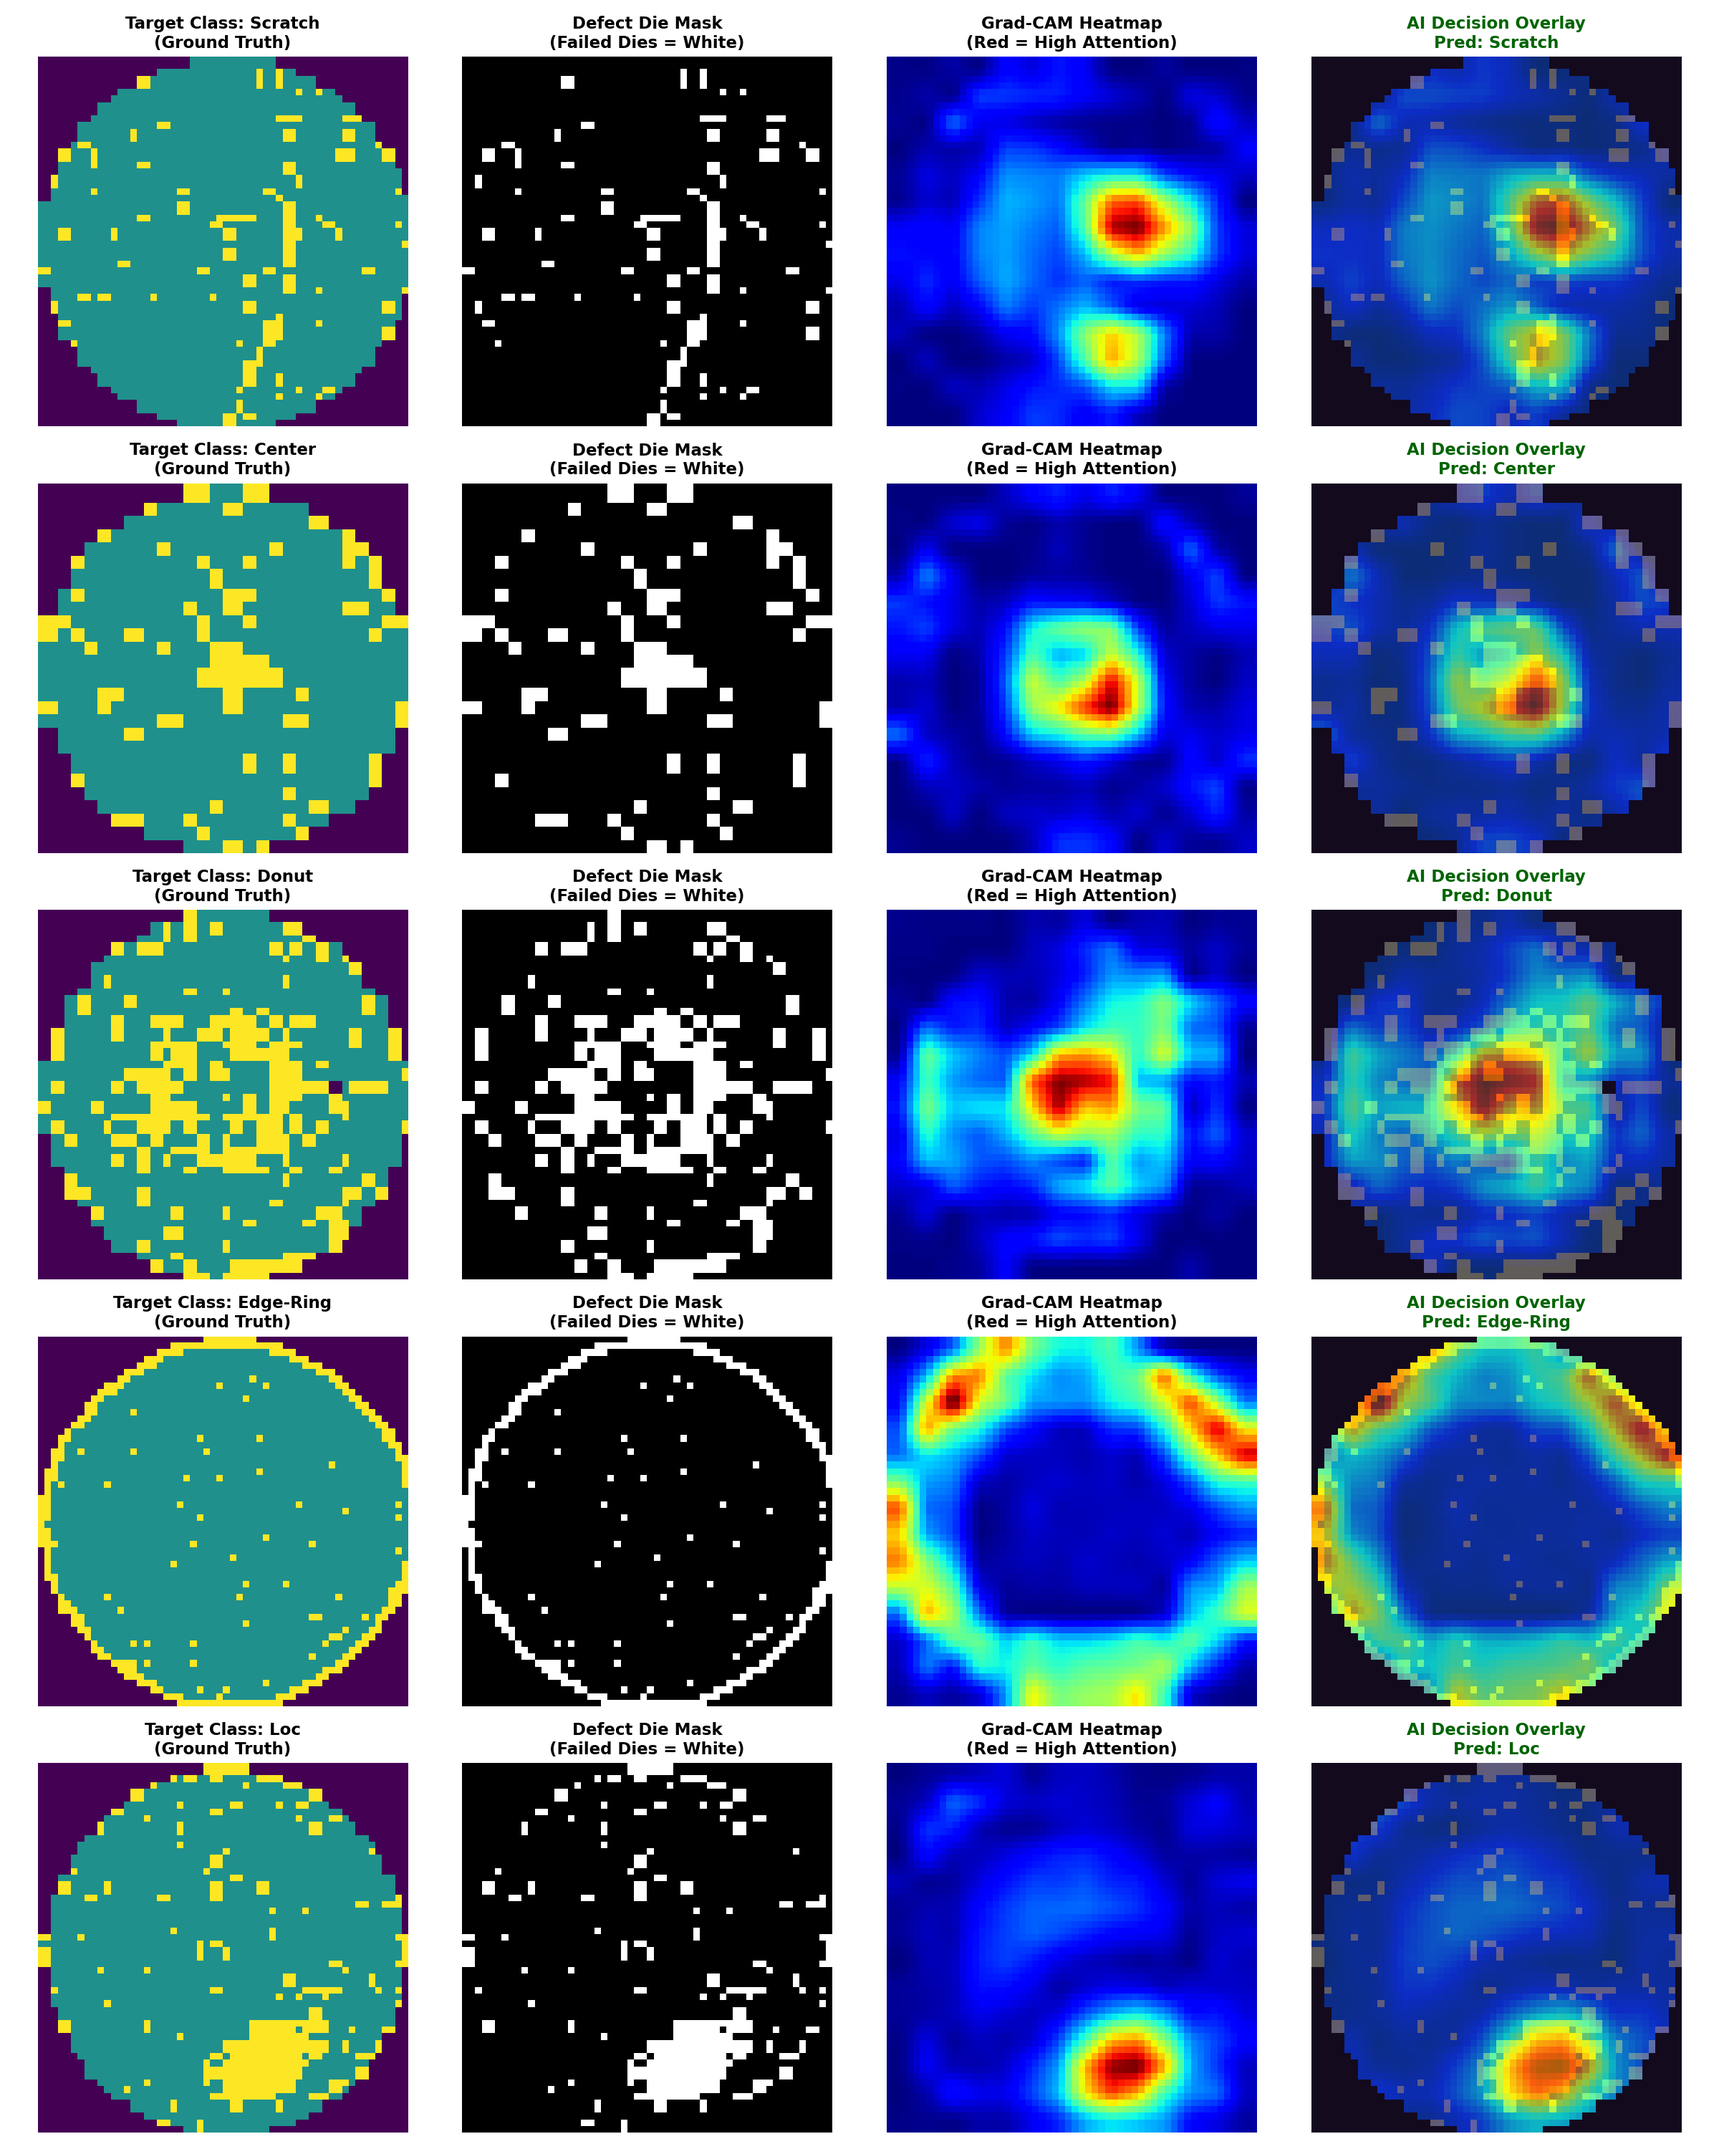
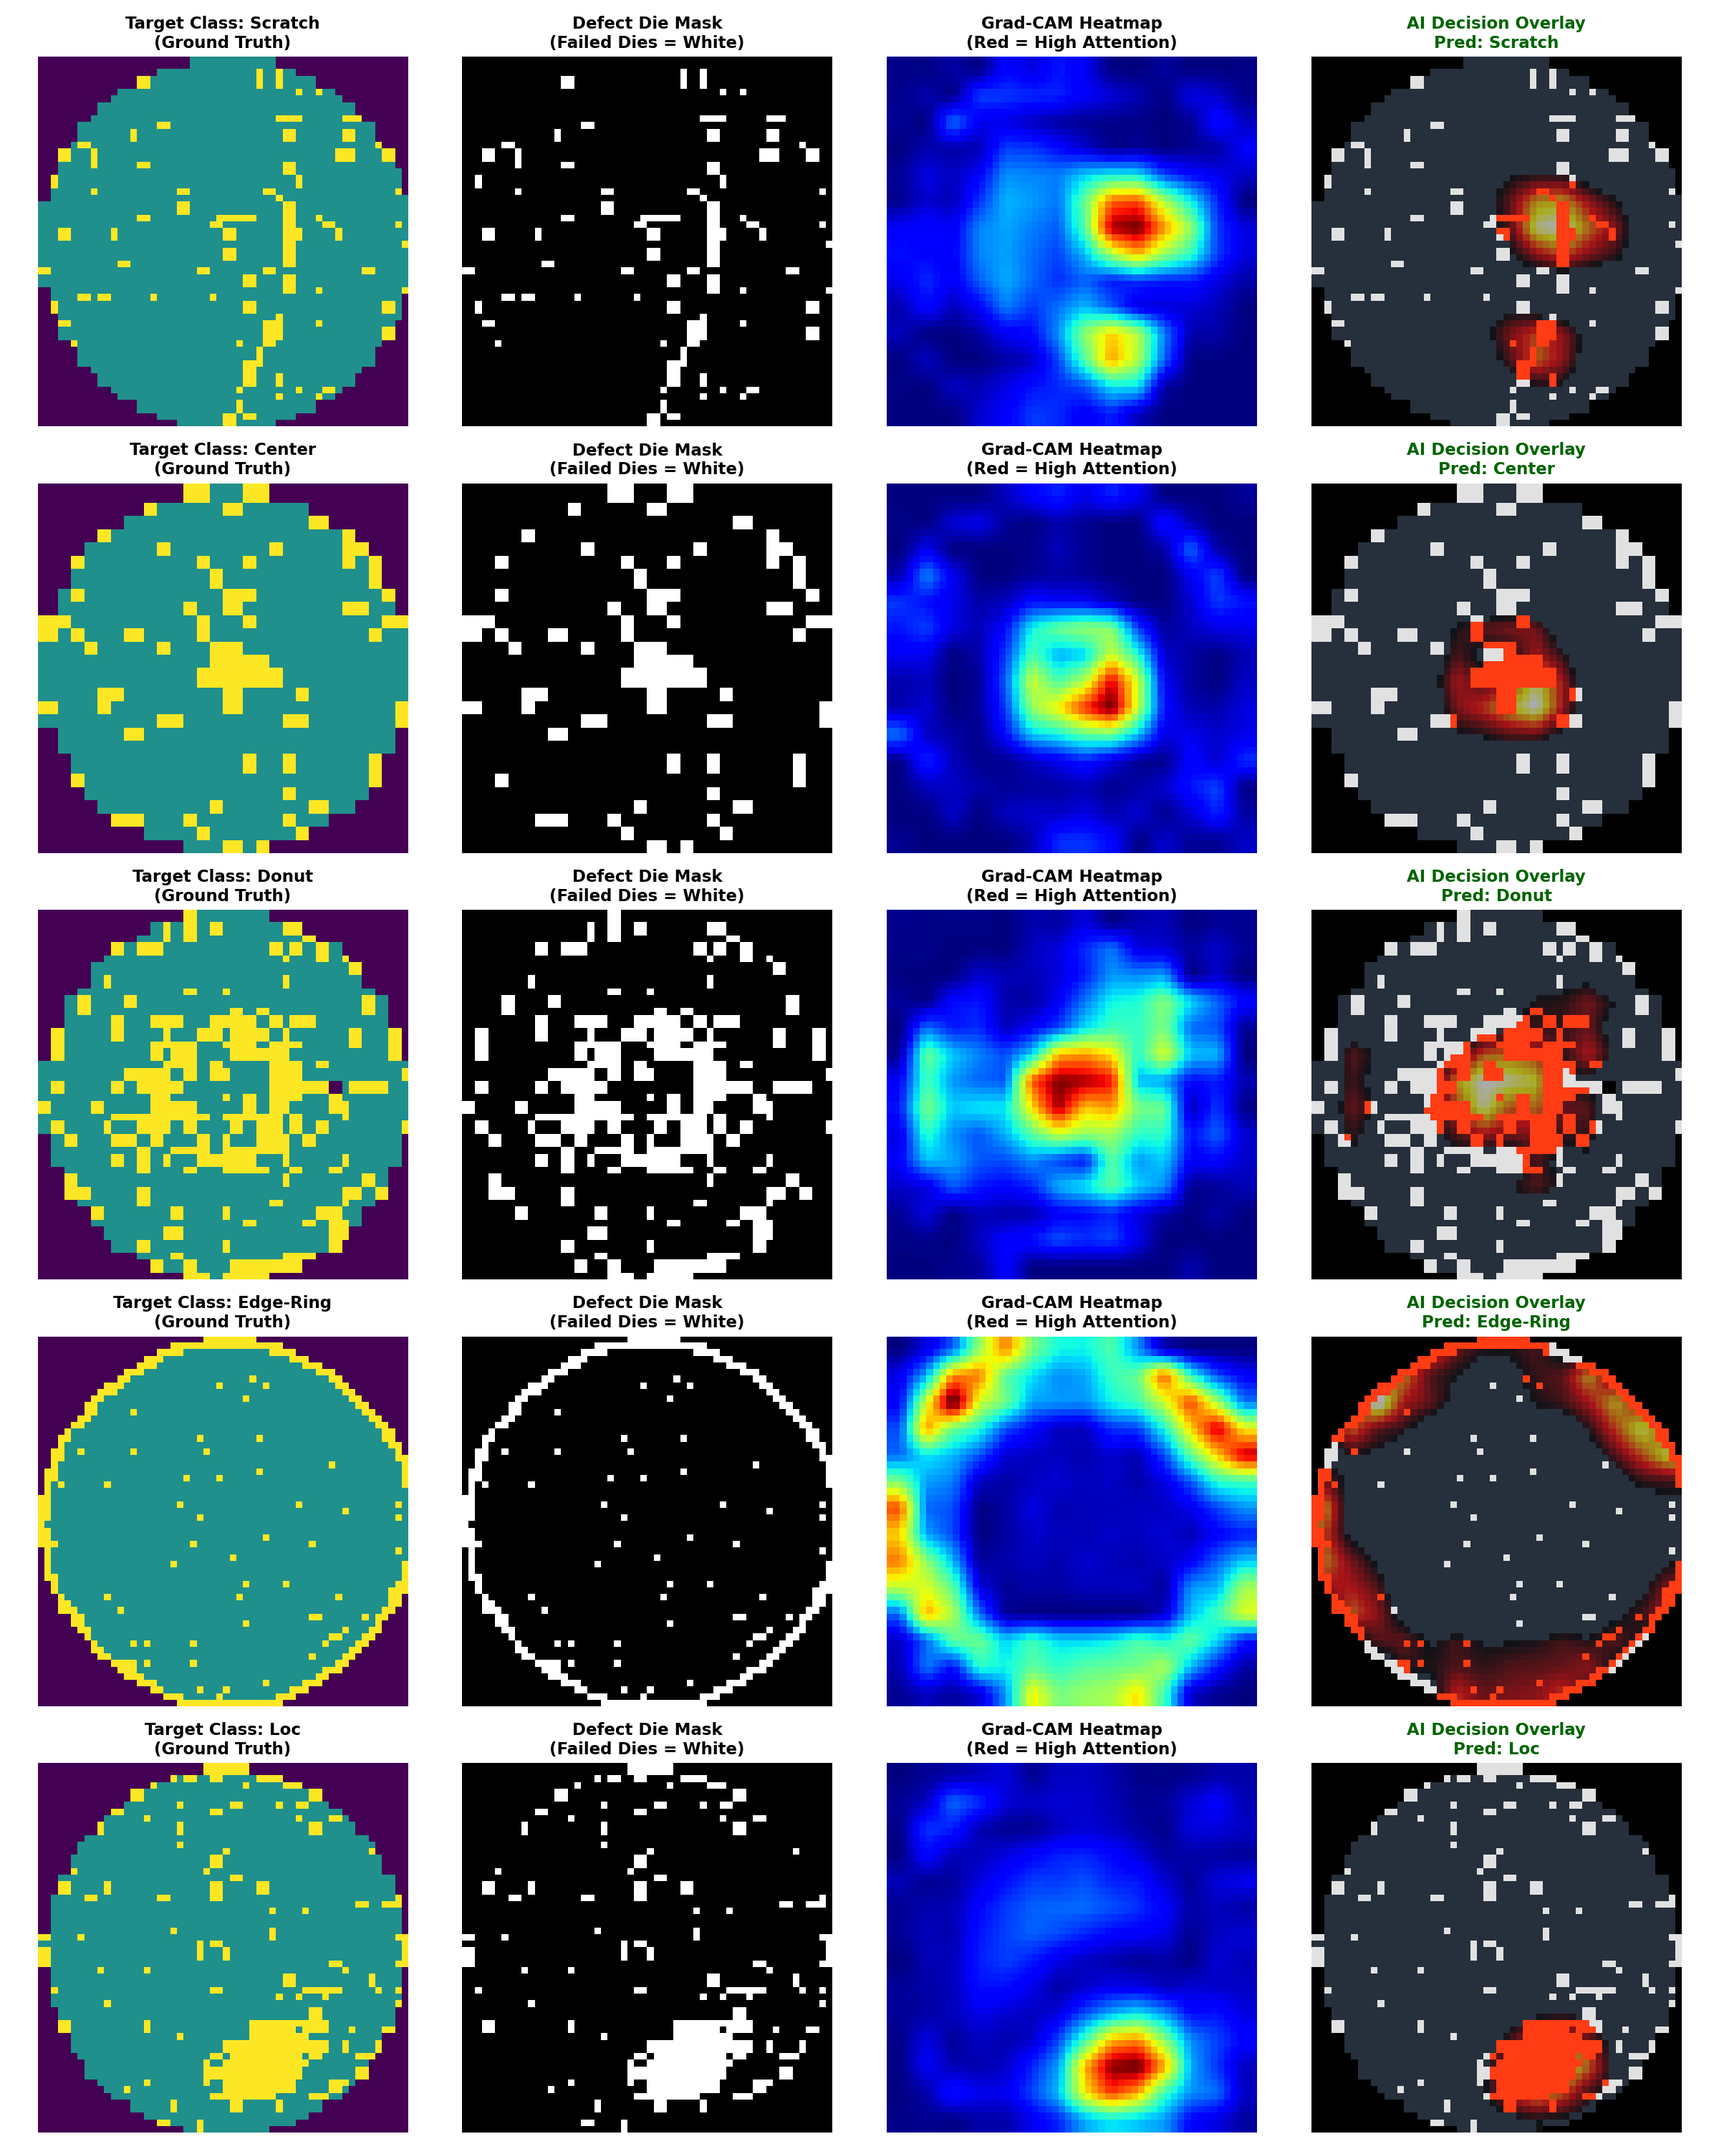
style: enhance Grad-CAM overlay contrast with focused defect highlighting

Changed region(s): [[0.75, 0.0, 1.0, 0.992]]

diff --git a/src/explainability.py b/src/explainability.py
@@ -1,4 +1,4 @@
-import numpy as np
+import numpy as np
 import cv2
 import torch
 import torch.nn.functional as F
@@ -58,30 +58,45 @@ class GradCAM:
             
         return cam, target_class
 
-def overlay_heatmap_on_wafer(wafer_map, cam, alpha=0.55):
+def overlay_heatmap_on_wafer(wafer_map, cam, threshold=0.35):
     """
-    Overlays colored Grad-CAM heatmap directly onto the wafer map.
+    Creates an industrial-grade, crisp explainability overlay:
+    - Background: Black
+    - Wafer Body (Good dies): Clean Dark Navy/Slate Gray
+    - Defect Dies: Sharp White
+    - AI Attention Focus: Glowing Crimson Red highlighting exactly where the model looked!
     """
-    # Create RGB representation of wafer map:
-    # 0: Dark purple / black background
-    # 1: Dark teal (good die)
-    # 2: Bright yellow (defect die)
     h, w = wafer_map.shape
-    base_img = np.zeros((h, w, 3), dtype=np.uint8)
-    base_img[wafer_map == 0] = [20, 10, 30]      # Background
-    base_img[wafer_map == 1] = [30, 110, 110]    # Good die
-    base_img[wafer_map == 2] = [240, 230, 30]    # Defect die
+    overlay = np.zeros((h, w, 3), dtype=np.uint8)
     
-    # Heatmap with COLORMAP_JET
-    heatmap_colored = cv2.applyColorMap(np.uint8(255 * cam), cv2.COLORMAP_JET)
-    heatmap_colored = cv2.cvtColor(heatmap_colored, cv2.COLOR_BGR2RGB)
+    # 1. Base clean styling
+    # Good dies = clean professional dark slate (40, 50, 65)
+    overlay[wafer_map == 1] = [38, 48, 60]
     
-    # Blend only within the valid wafer region (wafer_map > 0)
-    blended = base_img.copy()
-    valid_mask = (wafer_map > 0)
-    blended[valid_mask] = np.clip(
-        (1 - alpha) * base_img[valid_mask] + alpha * heatmap_colored[valid_mask],
-        0, 255
-    ).astype(np.uint8)
+    # 2. Defect dies = Crisp White (230, 230, 230)
+    overlay[wafer_map == 2] = [225, 225, 225]
     
-    return blended
+    # 3. AI Attention: Where CAM is high (> threshold) within wafer
+    # We tint both good and defect dies with a vibrant heat highlight
+    active_mask = (cam >= threshold) & (wafer_map > 0)
+    
+    if np.any(active_mask):
+        # Apply Jet colormap only to the high-attention zone
+        norm_cam = (cam - threshold) / (1.0 - threshold + 1e-6)
+        norm_cam = np.clip(norm_cam, 0, 1)
+        
+        cam_uint8 = np.uint8(255 * norm_cam)
+        heatmap_colored = cv2.applyColorMap(cam_uint8, cv2.COLORMAP_HOT)
+        heatmap_colored = cv2.cvtColor(heatmap_colored, cv2.COLOR_BGR2RGB)
+        
+        # For defect dies inside the attention zone: Glowing Neon Gold/Red
+        defect_and_active = (wafer_map == 2) & active_mask
+        overlay[defect_and_active] = [255, 60, 20] # Intense Red-Orange
+        
+        # For wafer area in the attention zone: Soft Warm Glow
+        wafer_and_active = (wafer_map == 1) & active_mask
+        overlay[wafer_and_active] = np.clip(
+            0.4 * overlay[wafer_and_active] + 0.6 * heatmap_colored[wafer_and_active], 0, 255
+        ).astype(np.uint8)
+        
+    return overlay

diff --git a/scripts/generate_gradcam_demo.py b/scripts/generate_gradcam_demo.py
@@ -1,4 +1,4 @@
-import sys
+import sys
 import numpy as np
 import matplotlib.pyplot as plt
 import torch
@@ -56,7 +56,7 @@ for row_idx, target_name in enumerate(sample_classes):
     wmap[t_np[1] > 0.5] = 1
     wmap[t_np[2] > 0.5] = 2
     
-    overlay = overlay_heatmap_on_wafer(wmap, cam, alpha=0.6)
+    overlay = overlay_heatmap_on_wafer(wmap, cam, threshold=0.35)
     
     # Col 1: Original Raw Wafer Map
     axes[row_idx, 0].imshow(wmap, cmap="viridis")
